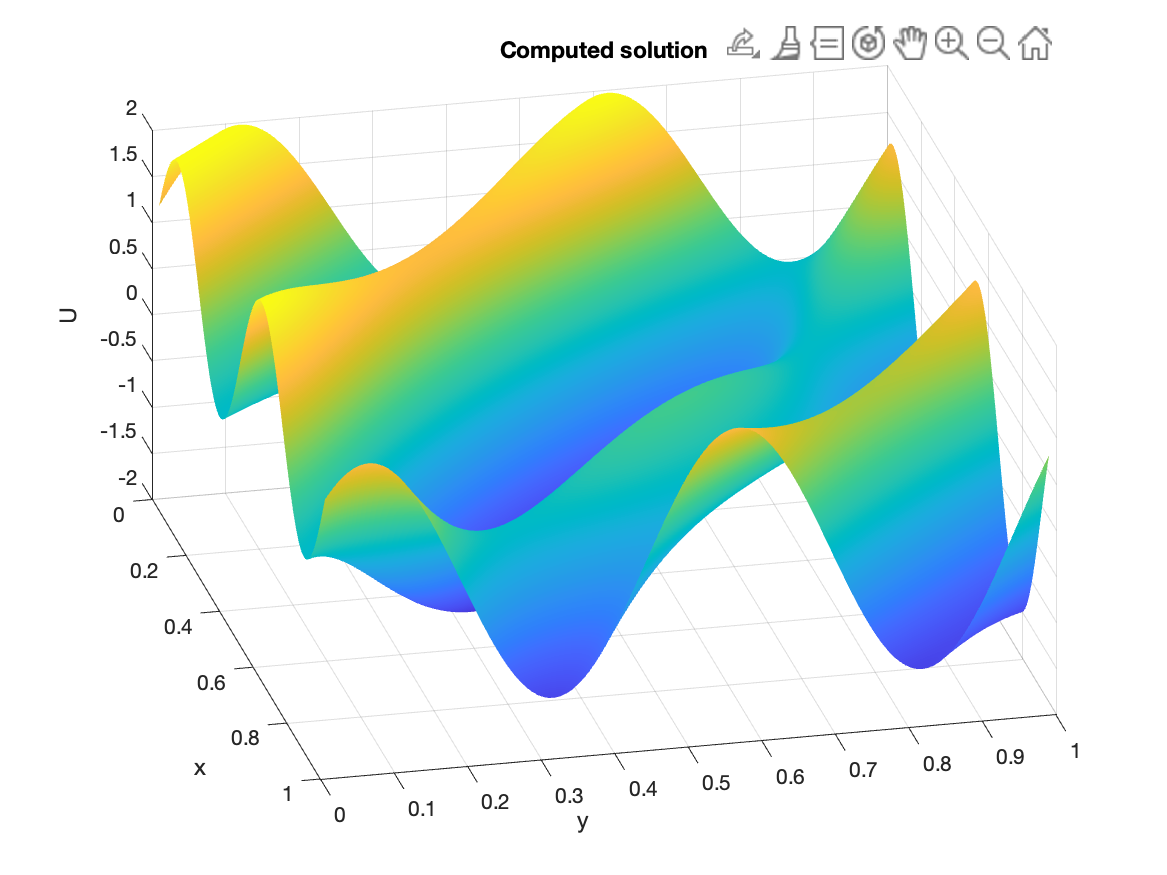
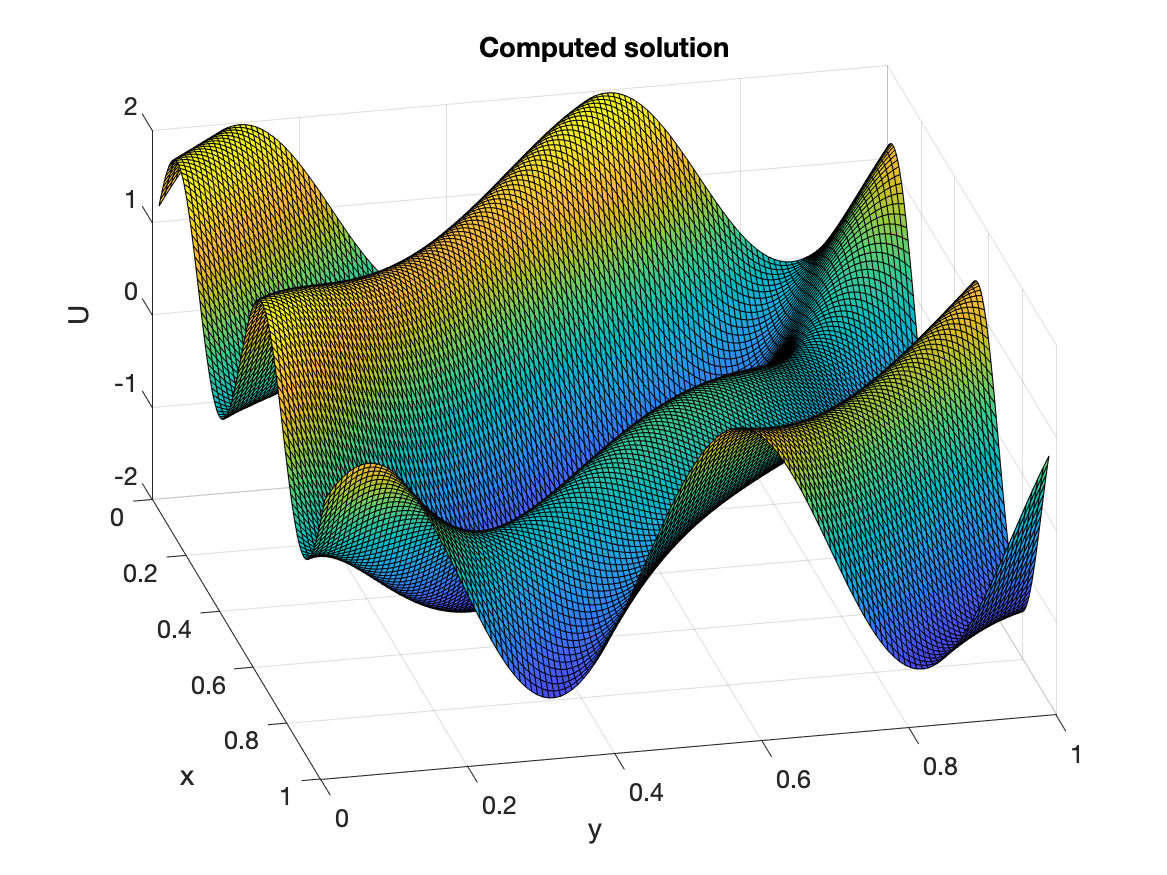
Nothing really

diff --git a/VCycle.m b/VCycle.m
@@ -1,44 +1,44 @@
 function Unew=VCycle(U, F, l, omega, nsmooth)
-% Approximately solve: A*U = F
-m = 2^l-1;
-h = 1.0/(m+1);
-l2m = log2(m+1);
-assert(l2m==round(l2m));
-assert(length(U)==m*m);
-if(l==1)  % if we are at the coarsest level
-    % TODO: solve the only remaining equation directly!
-    U_J = - 1/4*F*h^2;
-    %Unew = (1-omega)*U + omega*U_J
-    Unew = U_J;
-else
-    % 1. TODO: pre-smooth the error
-    %    perform <nsmooth> Jacobi iterations
-    for i = 1:nsmooth
-        U = smooth(U, omega, m, F);
+    % Approximately solve: A*U = F
+    m = 2^l-1;
+    h = 1.0/(m+1);
+    l2m = log2(m+1);
+    assert(l2m==round(l2m));
+    assert(length(U)==m*m);
+    if(l==1)  % if we are at the coarsest level
+        % TODO: solve the only remaining equation directly!
+        U_J = - 1/4*F*h^2;
+        %Unew = (1-omega)*U + omega*U_J
+        Unew = U_J;
+    else
+        % 1. TODO: pre-smooth the error
+        %    perform <nsmooth> Jacobi iterations
+        for i = 1:nsmooth
+            U = smooth(U, omega, m, F);
+        end
+        
+        % 2. TODO: calculate the residual
+        residual_ = F + Amult(U, m);
+        %plotU(m,residual_);
+        % 3. TODO: coarsen the residual
+        res_coarse = coarsen(residual_, m);
+        res_coarse = res_coarse(:);
+        
+        % 4. recurse to Vcycle on a coarser grid
+        e = zeros((m-1)/2 * (m-1)/2,1);
+        error_estimate = VCycle(e, -res_coarse, l-1, omega, nsmooth);
+        
+        % 5. TODO: interpolate the error
+        error_est_intplt = interpolate(error_estimate, (m-1)/2);
+        
+        % 6. TODO: update the solution given the interpolated error
+        U = U - error_est_intplt;
+        
+        % 7. TODO: post-smooth the error
+        for i = 1:nsmooth
+            U = smooth(U, omega, m, F);
+        end
+        Unew = U;
     end
-    
-    % 2. TODO: calculate the residual
-    residual_ = F + Amult(U, m);
-    %plotU(m,residual_);
-    % 3. TODO: coarsen the residual
-    res_coarse = coarsen(residual_, m);
-    res_coarse = res_coarse(:);
-    
-    % 4. recurse to Vcycle on a coarser grid
-    e = zeros((m-1)/2 * (m-1)/2,1);
-    error_estimate = VCycle(e, -res_coarse, l-1, omega, nsmooth);
-    
-    % 5. TODO: interpolate the error
-    error_est_intplt = interpolate(error_estimate, (m-1)/2);
-    
-    % 6. TODO: update the solution given the interpolated error
-    U = U - error_est_intplt;
-    
-    % 7. TODO: post-smooth the error
-    for i = 1:nsmooth
-        U = smooth(U, omega, m, F);
-    end
-    Unew = U;
-end
 end
 

diff --git a/constructJacobianNew.m b/constructJacobianNew.m
@@ -1,19 +1,24 @@
 function [J] = constructJacobianNew(U,h,epsilon)
 
+    % Constructs Jacobian matrix of the discretization used in Exercise 2a
     n = length(U)-2;
     
     J = zeros(n,n);
 
+    % Iterating through every row
     for i = 1:n
 
         uidx = i+1;
         
+        % Element in lower diagonal
         if i > 1
             J(i,i-1) = epsilon/h^2 - U(uidx)/(2*h);
         end
         
+        % Element in diagonal
         J(i,i) = -2*epsilon/h^2 + (U(uidx+1)-U(uidx-1))/(2*h) - 1;
         
+        % Element in upper diagonal
         if i < n
             J(i,i+1) = epsilon/h^2 + U(uidx)/(2*h);
         end

diff --git a/ex3_multigrid.m b/ex3_multigrid.m
@@ -22,7 +22,7 @@ m=2^L-1;
 epsilon = 1.0E-10;
 
 % reset U to initial value
-U_0 = ones(m*m,1);
+U_0 = zeros(m*m,1);
 U = U_0;
 
 % define omega. 2/3 is derived from plot of eigenvector analysis
@@ -106,7 +106,7 @@ y=linspace(h,1-h,m);
 [X,Y]=meshgrid(x,y);
 surf(X, Y, reshape(U,[m,m])');
 
-shading interp;
+% shading interp;
 title('Computed solution');
 xlabel('x');
 ylabel('y');

diff --git a/constructRhs9.m b/constructRhs9.m
@@ -1,5 +1,6 @@
 function [X,Y,F] = constructRhs9(m,f,g,flag)
-
+    
+    % For testing, it's the exact second order laplacian of f. 
     d2f = @(x,y) 256*pi^2*(4*pi^2*sin(4*pi*(x + y)) + ...
                  (-1/4 + (x^2 + y^2)^2*pi^2)*cos(4*pi*x*y) + ...
                  2*pi*y*sin(4*pi*x*y)*x);

diff --git a/ex3_b.m b/ex3_b.m
@@ -19,7 +19,7 @@ omega = 2/3;
 
 max_steps = 1000;
 
-max_recursions = 12;
+max_recursions = 5;
 iterations_needed = zeros(max_recursions-1);
 
 for L = 2:max_recursions

diff --git a/ex3a.m b/ex3a.m
@@ -1,3 +1,7 @@
+clear
+clc
+close all
+
 % In this exercise we want to test the convergence rate of Matlabs built-in
 % solver.
 
